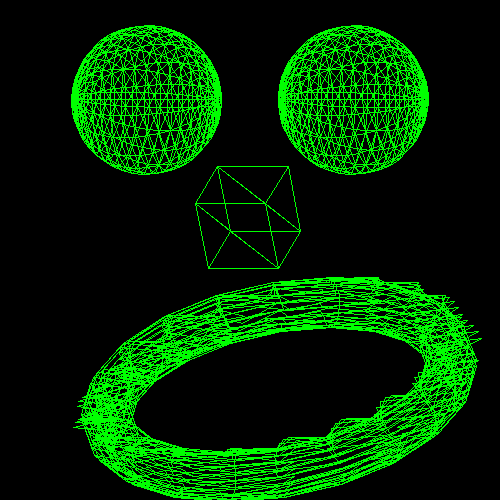
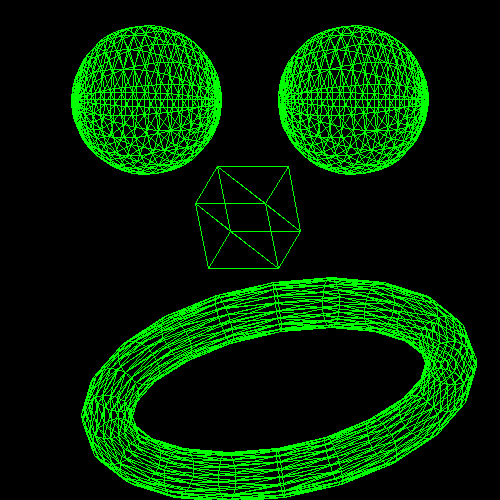
almost almost

Changed region(s): [[0.15, 0.54, 0.96, 1.0], [0.15, 0.06, 0.45, 0.36], [0.57, 0.06, 0.84, 0.36]]

diff --git a/draw.py b/draw.py
@@ -68,12 +68,12 @@ def add_sphere(polygons, cx, cy, cz, r, step ):
             add_polygon(polygons, points[index][0],
                      points[index][1],
                      points[index][2],
-                     points[index-1][0],
-                     points[index-1][1],
-                     points[index-1][2],
-                     points[index-step-1][0],
-                     points[index-step-1][1],
-                     points[index-step-1][2] )
+                     points[index-step+1][0],
+                     points[index-step+1][1],
+                     points[index-step+1][2],
+                     points[index-step][0],
+                     points[index-step][1],
+                     points[index-step][2] )
 
 def generate_sphere( cx, cy, cz, r, step ):
     points = []
@@ -111,9 +111,9 @@ def add_torus(polygons, cx, cy, cz, r0, r1, step ):
             add_polygon(polygons, points[index][0],
                      points[index][1],
                      points[index][2],
-                     points[index-11][0],
-                     points[index-1][1],
-                     points[index-1][2],
+                     points[index-step+1][0],
+                     points[index-step+1][1],
+                     points[index-step+1][2],
                      points[index-step][0],
                      points[index-step][1],
                      points[index-step][2] )
